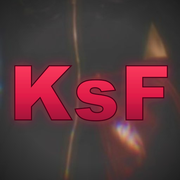
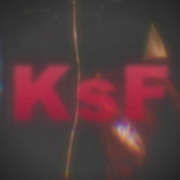
Ícone: KsF em fumaça vermelha translúcida (~50%) com bordas difusas

Changed region(s): [[0.0556, 0.3611, 0.6667, 0.6944], [0.6944, 0.3611, 0.9444, 0.6944]]

diff --git a/scripts/make-icon.js b/scripts/make-icon.js
@@ -13,39 +13,51 @@ if (!fs.existsSync(input)) {
   process.exit(1)
 }
 
-// SVG sobreposto: "KsF" vermelho, sombra/glow forte, leve escurecimento nas bordas
+// SVG sobreposto: "KsF" como fumaça vermelha translúcida (~50%), bordas difusas
 function overlaySVG(size) {
   const fontSize = Math.round(size * 0.42)
   const cx = size / 2
   const cy = size / 2
+  const blurSoft = (size * 0.012).toFixed(1)   // desfoque do texto (esfumaçado)
+  const blurHaze = (size * 0.05).toFixed(1)    // névoa/glow largo atrás
   return Buffer.from(`
   <svg width="${size}" height="${size}" viewBox="0 0 ${size} ${size}" xmlns="http://www.w3.org/2000/svg">
     <defs>
-      <!-- Glow/sombra vermelha em volta das letras -->
-      <filter id="redShadow" x="-40%" y="-40%" width="180%" height="180%">
-        <feDropShadow dx="0" dy="${Math.round(size*0.012)}" stdDeviation="${Math.round(size*0.02)}" flood-color="#000000" flood-opacity="0.85"/>
-        <feDropShadow dx="0" dy="0" stdDeviation="${Math.round(size*0.03)}" flood-color="#e11d48" flood-opacity="0.6"/>
+      <!-- Desfoque suave das letras: aspecto de fumaça -->
+      <filter id="smoke" x="-50%" y="-50%" width="200%" height="200%">
+        <feGaussianBlur stdDeviation="${blurSoft}"/>
       </filter>
-      <!-- Gradiente vermelho nas letras pra dar volume -->
-      <linearGradient id="redFill" x1="0" y1="0" x2="0" y2="1">
-        <stop offset="0%" stop-color="#fb3a5d"/>
-        <stop offset="55%" stop-color="#e11d48"/>
-        <stop offset="100%" stop-color="#9f1239"/>
+      <!-- Névoa larga e difusa atrás (a "fumaça" se espalhando) -->
+      <filter id="haze" x="-80%" y="-80%" width="260%" height="260%">
+        <feGaussianBlur stdDeviation="${blurHaze}"/>
+      </filter>
+      <!-- Gradiente vertical avermelhado, tom de brasa -->
+      <linearGradient id="redSmoke" x1="0" y1="0" x2="0" y2="1">
+        <stop offset="0%" stop-color="#ff4d6d"/>
+        <stop offset="60%" stop-color="#e11d48"/>
+        <stop offset="100%" stop-color="#b11236"/>
       </linearGradient>
-      <!-- Vinheta: escurece as bordas pra logo destacar -->
+      <!-- Vinheta leve pra dar profundidade -->
       <radialGradient id="vignette" cx="50%" cy="50%" r="75%">
-        <stop offset="55%" stop-color="#000000" stop-opacity="0"/>
-        <stop offset="100%" stop-color="#000000" stop-opacity="0.55"/>
+        <stop offset="60%" stop-color="#000000" stop-opacity="0"/>
+        <stop offset="100%" stop-color="#000000" stop-opacity="0.45"/>
       </radialGradient>
     </defs>
 
     <rect width="${size}" height="${size}" fill="url(#vignette)"/>
 
+    <!-- Camada 1: névoa vermelha bem difusa (a fumaça espalhada) -->
     <text x="${cx}" y="${cy}" text-anchor="middle" dominant-baseline="central"
           font-family="Arial Black, Arial, sans-serif" font-weight="900"
-          font-size="${fontSize}" fill="url(#redFill)"
-          stroke="#4c0519" stroke-width="${Math.round(size*0.006)}"
-          filter="url(#redShadow)"
+          font-size="${fontSize}" fill="#ff1f47"
+          filter="url(#haze)" opacity="0.4"
+          letter-spacing="${Math.round(size*0.005)}">KsF</text>
+
+    <!-- Camada 2: as letras esfumaçadas, ~50% de transparência -->
+    <text x="${cx}" y="${cy}" text-anchor="middle" dominant-baseline="central"
+          font-family="Arial Black, Arial, sans-serif" font-weight="900"
+          font-size="${fontSize}" fill="url(#redSmoke)"
+          filter="url(#smoke)" opacity="0.5"
           letter-spacing="${Math.round(size*0.005)}">KsF</text>
   </svg>`)
 }
